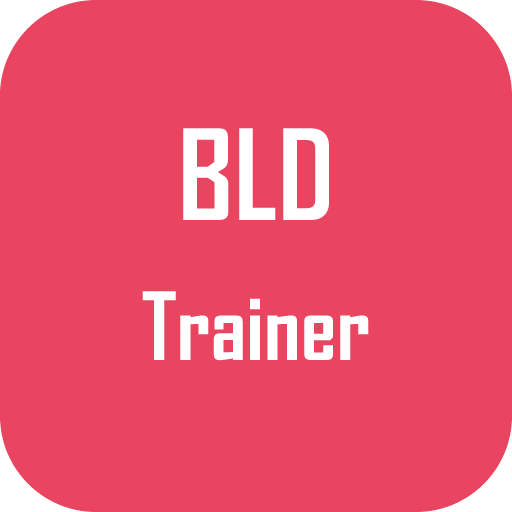
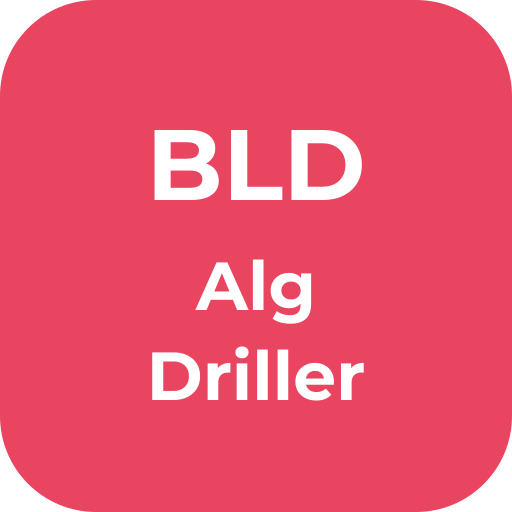
Rename to BLD AlgDriller, add 3-state results sorting
- Rename app from "BLD Trainer" to "BLD AlgDriller" in UI and manifest
- Update icon.svg with new 3-line layout (BLD / Alg / Driller)
- Results now default to game order; clicking "Czas" cycles:
  game order → best (↓) → worst (↑) → back
- Raise edit modal by 2rem

Note: PNG icons need to be regenerated from icon.svg

Changed region(s): [[0.2812, 0.5, 0.7188, 0.7812], [0.2812, 0.25, 0.7188, 0.4375]]

diff --git a/index.html b/index.html
@@ -9,12 +9,12 @@
     <meta name="theme-color" content="#1a1a2e" />
     <meta
       name="description"
-      content="BLD Trainer - trening algorytmów blindcubing 3x3"
+      content="BLD AlgDriller - trening algorytmów blindcubing 3x3"
     />
     <link rel="manifest" href="manifest.json" />
     <link rel="icon" type="image/png" href="icons/icon-192.png" />
     <link rel="apple-touch-icon" href="icons/icon-192.png" />
-    <title>BLD Trainer</title>
+    <title>BLD AlgDriller</title>
     <link rel="stylesheet" href="css/style.css" />
   </head>
   <body>
@@ -24,7 +24,7 @@
         <button id="theme-toggle" class="theme-toggle" title="Zmień motyw">
           🌙
         </button>
-        <h1>BLD Trainer</h1>
+        <h1>BLD AlgDriller</h1>
         <div class="menu-buttons">
           <button id="btn-edges" class="btn btn-primary">Krawędzie</button>
           <button id="btn-corners" class="btn btn-primary">Rogi</button>
@@ -61,14 +61,14 @@
 
       <!-- Buffer Choice -->
       <div id="buffer-screen" class="screen">
-        <button class="btn-logo">BLD Trainer</button>
+        <button class="btn-logo">BLD AlgDriller</button>
         <h2>Wybierz bufor</h2>
         <div id="buffer-list" class="button-list"></div>
       </div>
 
       <!-- Subset Choice -->
       <div id="subset-screen" class="screen">
-        <button class="btn-logo">BLD Trainer</button>
+        <button class="btn-logo">BLD AlgDriller</button>
         <h2 id="subset-title">Wybierz podzbiór</h2>
         <button id="btn-all" class="btn btn-primary btn-all">Wszystkie</button>
         <div class="subset-modes">
@@ -138,7 +138,7 @@
 
       <!-- Flashcard Screen -->
       <div id="flashcard-screen" class="screen">
-        <button class="btn-logo btn-logo-small">BLD Trainer</button>
+        <button class="btn-logo btn-logo-small">BLD AlgDriller</button>
         <div class="flashcard-top">
           <button id="btn-flashcard-back" class="btn btn-small btn-secondary">
             ← Wróć
@@ -171,7 +171,7 @@
 
       <!-- Game Screen -->
       <div id="game-screen" class="screen">
-        <button class="btn-logo btn-logo-small">BLD Trainer</button>
+        <button class="btn-logo btn-logo-small">BLD AlgDriller</button>
         <div class="game-top">
           <button id="btn-game-back" class="btn btn-small btn-secondary">
             ← Wróć
@@ -191,7 +191,7 @@
 
       <!-- Results Screen -->
       <div id="results-screen" class="screen">
-        <button class="btn-logo">BLD Trainer</button>
+        <button class="btn-logo">BLD AlgDriller</button>
         <h2>Wyniki sesji</h2>
         <div id="session-summary" class="session-summary"></div>
         <div
@@ -227,7 +227,7 @@
 
       <!-- Stats Screen -->
       <div id="stats-screen" class="screen">
-        <button class="btn-logo">BLD Trainer</button>
+        <button class="btn-logo">BLD AlgDriller</button>
         <h2>Statystyki</h2>
         <div id="stats-content" class="stats-content">
           <div class="stats-tabs">
@@ -245,7 +245,7 @@
 
       <!-- Import Screen -->
       <div id="import-screen" class="screen">
-        <button class="btn-logo">BLD Trainer</button>
+        <button class="btn-logo">BLD AlgDriller</button>
         <h2>Import algorytmów</h2>
         <div class="import-options">
           <label class="file-input-label">
@@ -459,7 +459,7 @@ UBL URF: R U R' U'</pre
           <section>
             <h4>Nawigacja</h4>
             <p>
-              Kliknij <strong>BLD Trainer</strong> na górze aby wrócić do menu.
+              Kliknij <strong>BLD AlgDriller</strong> na górze aby wrócić do menu.
             </p>
           </section>
         </div>
